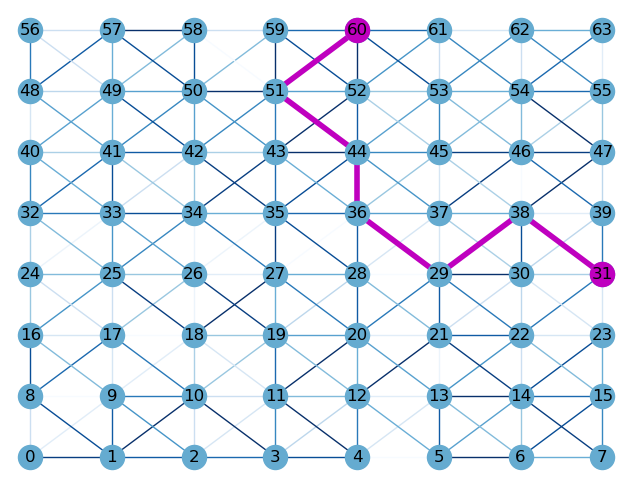
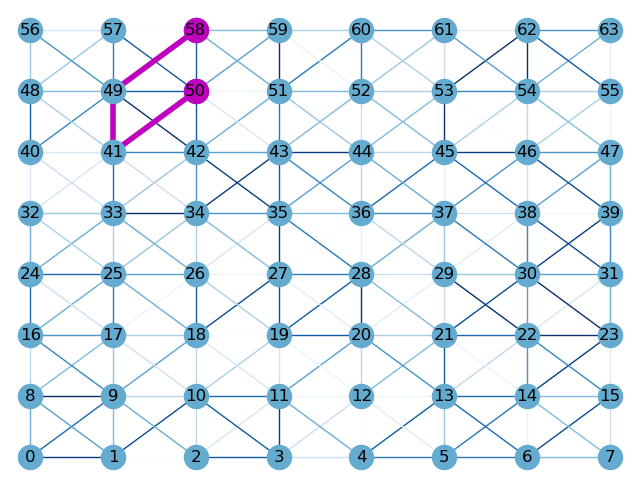
1

diff --git a/app.py b/app.py
@@ -21,15 +21,20 @@ class MyWindow(QWidget):
 
     def init_ui(self):
         self.resize(500,300)
-        # 最外层的布局，采用水平布局，包含两部分，左边为输入的图信息，
-        # 右边为输出的最短路径图
         self.container = QHBoxLayout()
-        # 第一组控件，设定图的信息
-        self.input_box = QGroupBox('输入信息')
-        # 输入信息是垂直摆放
         self.v_layout = QVBoxLayout()
-        # btn1 = QPushButton('定义节点', self)
-        # btn2 = QPushButton('定义边', self)
+        self.flo = QFormLayout()
+        self.text_edit = QTextEdit()
+        self.text_edit.setPlaceholderText('请输入对称矩阵以设置无向图权重，例如：\n[[0,1],[1,0]]')
+        self.flo.addWidget(self.text_edit)
+        self.btn_set_graph = QPushButton('生成无向图',self)
+        self.btn_set_graph.clicked.connect(self.set_graph)
+        self.flo.addWidget(self.btn_set_graph)
+        self.set_start_line = QLineEdit('')
+        self.set_start_line.setPlaceholderText('请输入最短路径树的根节点...')
+        self.flo.addWidget(self.set_start_line)
+        self.set_start_btn = QPushButton('设置根节点',self)
+        self.flo.addWidget(self.set_start_btn)
         self.btn_ran_graph = QPushButton('随机生成图',self)
         self.btn_ran_graph.clicked.connect(self.random_grid_graph)
         self.btn_ran_start_end = QPushButton('随机生成起点终点', self)
@@ -40,20 +45,38 @@ class MyWindow(QWidget):
         self.btn_tree.clicked.connect(self.draw_tree)
         # v_layout.addWidget(btn1)
         # v_layout.addWidget(btn2)
-        self.v_layout.addWidget(self.btn_ran_graph)
-        self.v_layout.addWidget(self.btn_ran_start_end)
-        self.v_layout.addWidget(self.btn_solve)
-        self.v_layout.addWidget(self.btn_tree)
-        self.input_box.setLayout(self.v_layout)
-        # 创建第二个组
-        # self.output_box = QGroupBox('图可视化')
-        # self.v_layout = QVBoxLayout()
-        # self.output_box.setLayout(self.v_layout)
-        self.container.addWidget(self.input_box)
-        # self.container.addWidget(self.output_box)
+        # self.v_layout.addWidget(self.text_edit)
+        # self.v_layout.addWidget(self.btn_ran_graph)
+        # self.v_layout.addWidget(self.btn_ran_start_end)
+        # self.v_layout.addWidget(self.btn_solve)
+        # self.v_layout.addWidget(self.btn_tree)
+        self.N2AnoPb_shadow = QGraphicsDropShadowEffect()  # 阴影类
+        self.N2AnoPb_shadow.setOffset(0, 0)  # 设置阴影偏移坐标
+        self.N2AnoPb_shadow.setBlurRadius(10)  # 设置阴影深度
+        self.N2AnoPb_shadow.setColor(Qt.darkGreen)  # 设置阴影颜色
+        self.btn_tree.setGraphicsEffect(self.N2AnoPb_shadow)  # 把阴影赋给控件
 
-        self.setLayout(self.container)
-        self.setWindowTitle('计算无向图最短路径')
+
+        self.flo.addWidget(self.btn_ran_graph)
+        self.flo.addWidget(self.btn_ran_start_end)
+        self.flo.addWidget(self.btn_solve)
+        self.flo.addWidget(self.btn_tree)
+        # self.setLayout(self.v_layout)
+        self.setLayout(self.flo)
+
+        self.setWindowTitle('最短路径树生成（20377139-张云奕）')
+
+    def set_graph(self):
+        graph_info = self.text_edit.toPlainText()
+        weight_matrix = np.array(eval(graph_info))
+        print(weight_matrix.shape)
+        self.G = MyGraph()
+        self.G.generate_map_from_matrix(weight_matrix)
+        plt.close()
+        self.G.draw_raw()
+        print('已设置无向图')
+
+
 
     def random_graph(self):
         self.G = MyGraph()

diff --git a/graph.py b/graph.py
@@ -22,16 +22,14 @@ class MyGraph(nx.Graph):
         self.path = []
         self.shortest_length = 0
 
-    def generate_random_map(self, node_amount=20):
-        print('开始生成随机图')
-        weight_matrix = np.random.randint(0,5,(node_amount, node_amount))
+    def generate_map_from_matrix(self, weight_matrix):
+        node_amount = weight_matrix.shape[0]
         for node_1 in range(node_amount):
             self.add_node(node_1, pos=(np.random.random(1), np.random.random(1)))
             for node_2 in range(node_amount):
                 if node_1 < node_2:
                     if weight_matrix[node_1][node_2] != 0:
                         self.add_edge(node_1, node_2, weight=weight_matrix[node_1][node_2])
-        print('随机图生成完毕')
 
     # 随机生成网格化地图
     def generate_grid_map(self):
@@ -85,8 +83,8 @@ class MyGraph(nx.Graph):
         # options = {"node_color": "#65abd0", "edge_color": '#dbebf4', "width": 1, "with_labels": True}
         cmap = plt.cm.get_cmap('Blues')
         options = {"node_color": "#65abd0", "edge_color": weights_list, 'edge_cmap': cmap, "width": 1, "with_labels": True}
-        nx.draw(self, pos=position, **options)
-        # nx.draw(self, with_labels=True)
+        # nx.draw(self, pos=position, **options)
+        nx.draw(self, with_labels=True)
         # nx.draw_networkx_edges(self, position, edgelist=[(0,1)], edge_color='m', width=4)
         # nx.draw_networkx(self, position, with_labels=True)
         # nx.draw_networkx_edge_labels(self, position, edge_labels=weights)
@@ -120,7 +118,7 @@ class MyGraph(nx.Graph):
             if node != self.start:
                 _, path = dijkstra(self, self.start, node)
                 self.path_tree[node] = path
-        print(self.path_tree)
+        # print(self.path_tree)
 
     def draw_tree(self):
         fig = plt.figure()

diff --git a/test.py b/test.py
@@ -1,0 +1,39 @@
+# -*- coding: utf-8 -*-
+
+from PyQt5.QtWidgets import QApplication, QLineEdit, QWidget, QFormLayout
+import sys
+
+class lineEditDemo(QWidget):
+    def __init__(self, parent=None):
+        super(lineEditDemo, self).__init__(parent)
+        self.setWindowTitle("QLineEdit 例子")
+
+        flo = QFormLayout()
+        pNormalLineEdit = QLineEdit()
+        pNoEchoLineEdit = QLineEdit()
+        pPasswordLineEdit = QLineEdit()
+        pPasswordEchoOnEditLineEdit = QLineEdit()
+
+        flo.addRow("Normal", pNormalLineEdit)
+        flo.addRow("NoEcho", pNoEchoLineEdit)
+        flo.addRow("Password", pPasswordLineEdit)
+        flo.addRow("PasswordEchoOnEdit",pPasswordEchoOnEditLineEdit)
+
+        pNormalLineEdit.setPlaceholderText("Normal")
+        pNoEchoLineEdit.setPlaceholderText("NoEcho")
+        pPasswordLineEdit.setPlaceholderText("Password")
+        pPasswordEchoOnEditLineEdit.setPlaceholderText("PasswordEchoEdit")
+
+        # 设置显示效果
+        pNormalLineEdit.setEchoMode(QLineEdit.Normal)
+        pNoEchoLineEdit.setEchoMode(QLineEdit.NoEcho)
+        pPasswordLineEdit.setEchoMode(QLineEdit.Password)
+        pPasswordEchoOnEditLineEdit.setEchoMode(QLineEdit.PasswordEchoOnEdit)
+
+        self.setLayout(flo)
+
+if __name__ == "__main__":
+    app = QApplication(sys.argv)
+    win = lineEditDemo()
+    win.show()
+    sys.exit(app.exec_())
